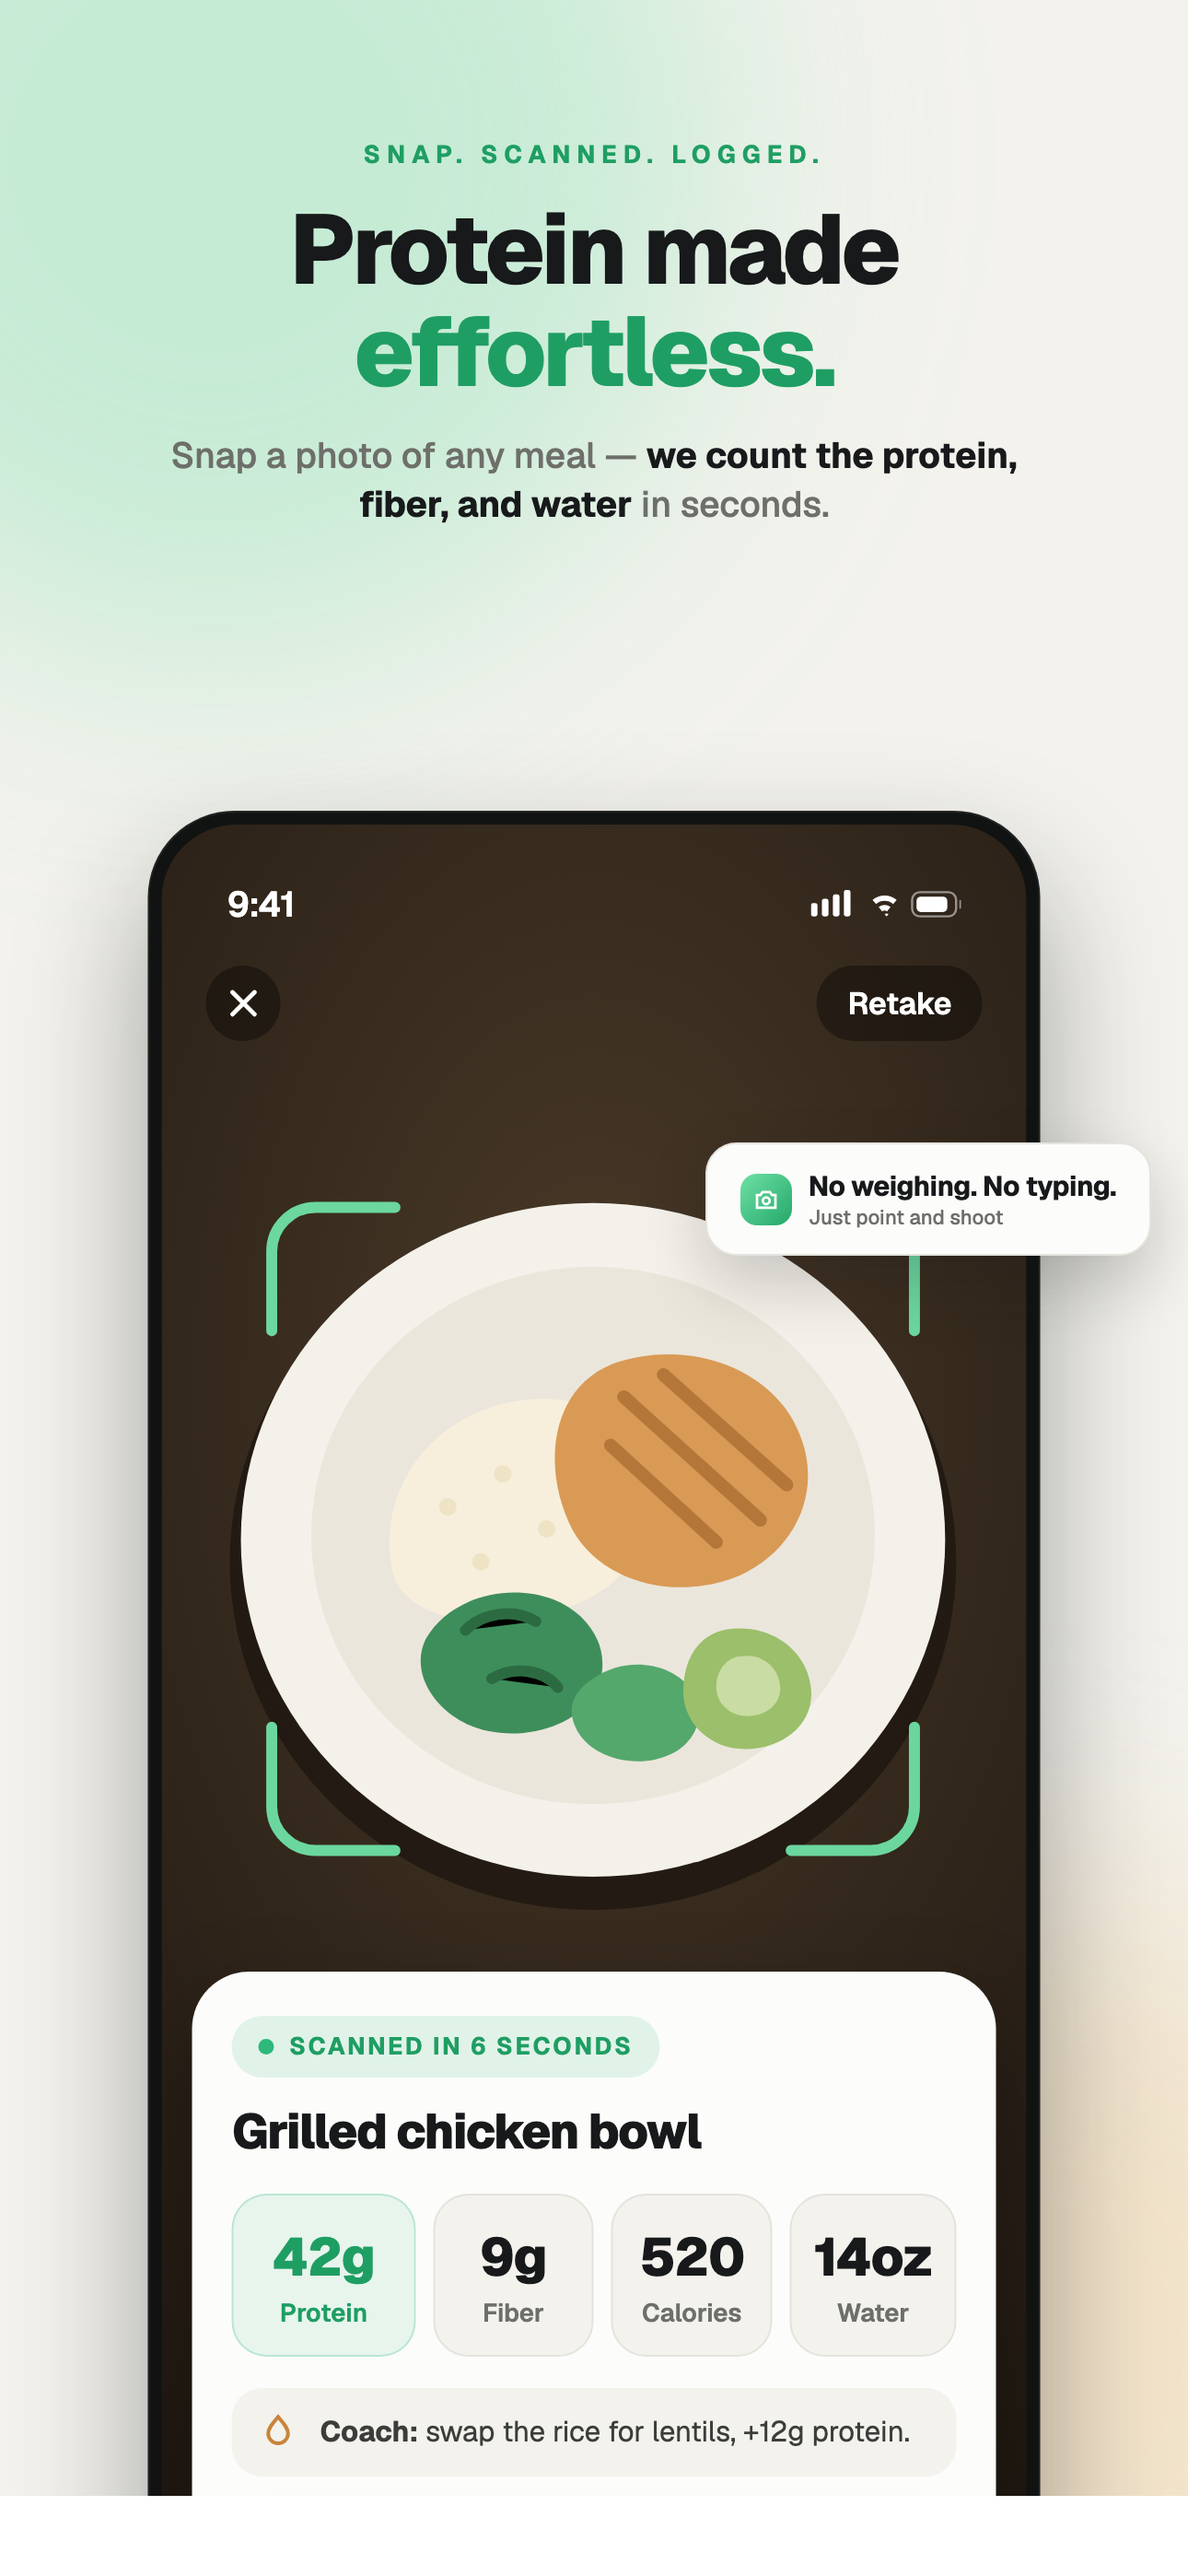
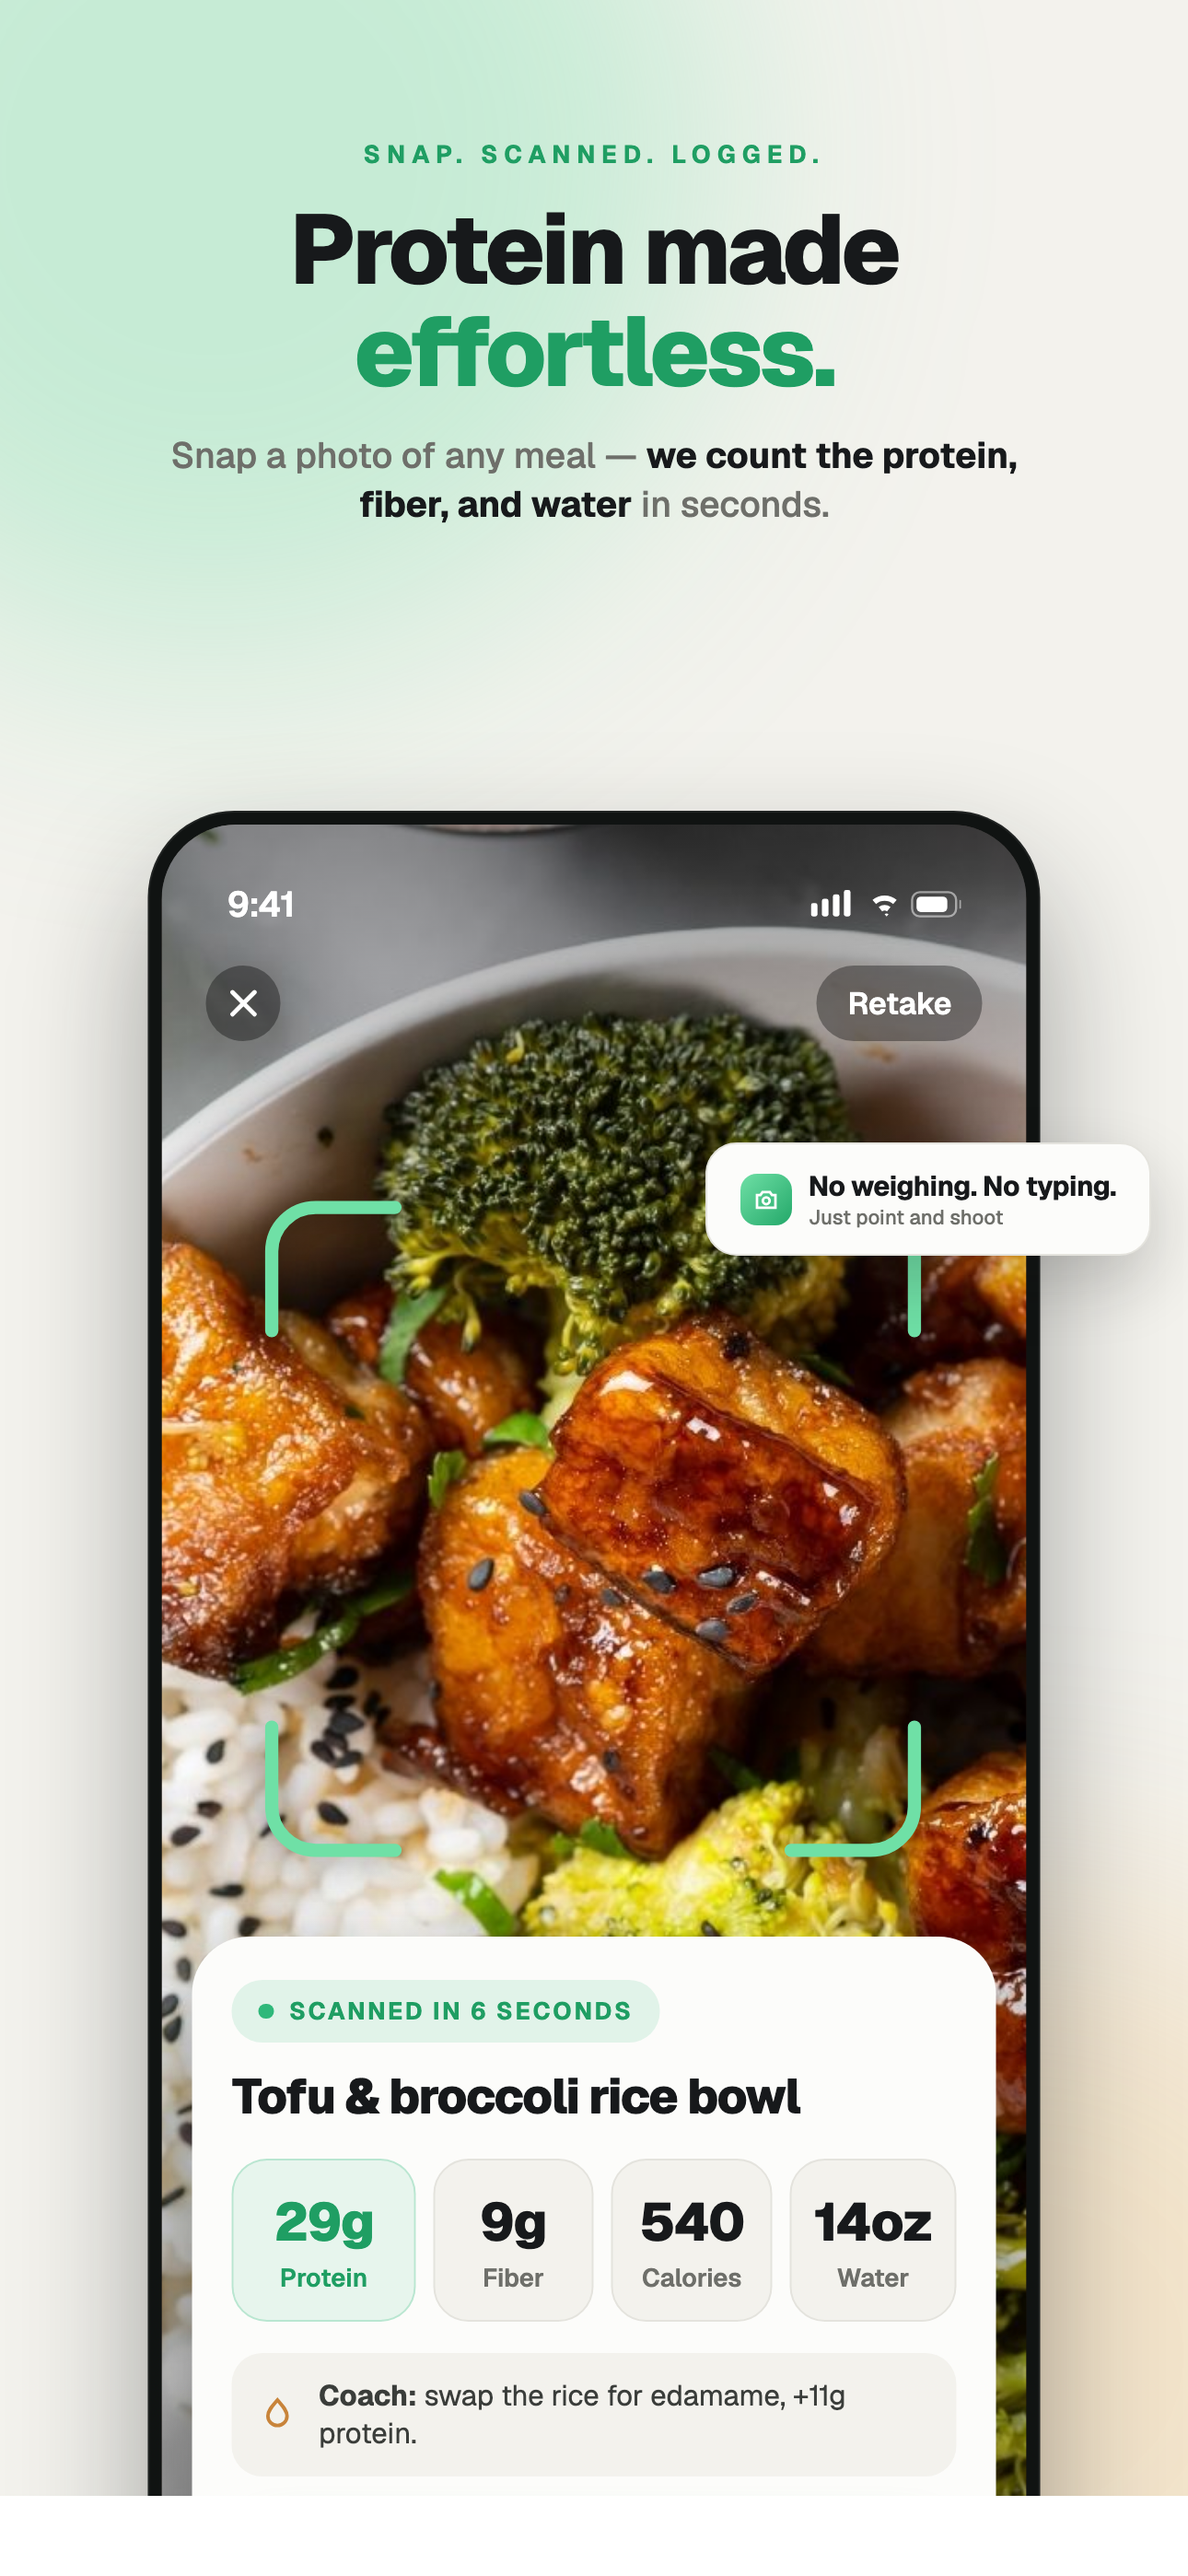
Use a real meal photo in the meal-scan screenshot
The stylized vector plate read as obviously fake. The camera view now
shows an actual tofu and broccoli rice bowl photo (copied into
assets/ so the marketing folder is self-contained), with scrims for
control legibility and drop-shadowed scan corners so they read over
the busy photo. Result card updated to match the meal: tofu bowl,
29g protein, 540 cal, edamame swap suggestion.

diff --git a/marketing/appstore/03-meal-scan.html b/marketing/appstore/03-meal-scan.html
@@ -15,31 +15,14 @@
   <div class="stage" style="top:880px">
     <div class="phone"><div class="screen" style="background:#1a1410">
 
-      <!-- "photo" backdrop: stylized plate -->
-      <div style="position:absolute;inset:0;background:
-        radial-gradient(120% 90% at 50% 30%, #4a3a28 0%, #2b2118 55%, #17110c 100%)"></div>
-      <svg width="393" height="500" viewBox="0 0 393 500" style="position:absolute;top:70px;left:0">
-        <ellipse cx="196" cy="265" rx="165" ry="158" fill="#0e0a07" opacity=".5"/>
-        <ellipse cx="196" cy="255" rx="160" ry="153" fill="#F4F1EA"/>
-        <ellipse cx="196" cy="253" rx="128" ry="122" fill="#EBE6DC"/>
-        <!-- rice -->
-        <path d="M105 270c-8-38 18-72 56-78 30-5 52 8 60 30 8 24-4 48-28 60-32 16-80 14-88-12z" fill="#F7EFDC"/>
-        <circle cx="130" cy="240" r="4" fill="#EFE3C6"/><circle cx="155" cy="225" r="4" fill="#EFE3C6"/><circle cx="175" cy="250" r="4" fill="#EFE3C6"/><circle cx="145" cy="265" r="4" fill="#EFE3C6"/><circle cx="190" cy="228" r="4" fill="#EFE3C6"/>
-        <!-- grilled chicken -->
-        <path d="M205 175c34-12 72 2 84 30 12 26 0 54-26 66-28 12-62 4-76-20-14-26-12-64 18-76z" fill="#D99A55"/>
-        <path d="M210 190l62 56M228 180l56 50M204 212l48 44" stroke="#B5763A" stroke-width="6" stroke-linecap="round"/>
-        <!-- greens -->
-        <path d="M120 300c10-18 36-26 58-18 20 8 28 28 18 44-12 18-44 22-62 10-14-9-20-24-14-36z" fill="#3E8E5B"/>
-        <path d="M138 296c8-8 22-10 32-4M150 318c10-6 24-4 30 4" stroke="#2C6B42" stroke-width="5" stroke-linecap="round"/>
-        <path d="M196 318c14-10 34-8 44 4 8 10 4 24-8 30-16 8-38 2-44-12-4-9-1-16 8-22z" fill="#54A86C"/>
-        <!-- avocado -->
-        <path d="M255 296c20-4 38 8 40 26 2 16-12 28-30 28-16 0-28-12-28-26 0-14 6-25 18-28z" fill="#9BBF6A"/>
-        <path d="M262 308c10-2 18 4 19 13 1 8-6 14-15 14-8 0-14-6-14-13 0-7 4-13 10-14z" fill="#C9DCA3"/>
-      </svg>
+      <!-- camera view: real meal photo -->
+      <div style="position:absolute;inset:0;background:url('assets/meal-photo.jpg') 62% 42% / cover no-repeat"></div>
+      <!-- scrims so the controls and result card read over the photo -->
+      <div style="position:absolute;inset:0;background:linear-gradient(180deg, rgba(0,0,0,.42) 0%, rgba(0,0,0,0) 22%, rgba(0,0,0,0) 55%, rgba(0,0,0,.35) 100%)"></div>
 
       <!-- scan corners -->
-      <svg width="300" height="300" viewBox="0 0 300 300" style="position:absolute;top:170px;left:46px">
-        <g stroke="#6FE0A6" stroke-width="5" stroke-linecap="round" fill="none" opacity=".95">
+      <svg width="300" height="300" viewBox="0 0 300 300" style="position:absolute;top:170px;left:46px;filter:drop-shadow(0 2px 8px rgba(0,0,0,.55))">
+        <g stroke="#6FE0A6" stroke-width="6" stroke-linecap="round" fill="none">
           <path d="M4 60V24a20 20 0 0 1 20-20h36"/><path d="M240 4h36a20 20 0 0 1 20 20v36"/>
           <path d="M296 240v36a20 20 0 0 1-20 20h-36"/><path d="M60 296H24a20 20 0 0 1-20-20v-36"/>
         </g>
@@ -63,10 +46,10 @@
       <!-- result card -->
       <div style="position:absolute;z-index:25;left:14px;right:14px;bottom:16px;background:#FCFCFA;border-radius:26px;padding:20px 18px 18px;box-shadow:0 18px 40px rgba(0,0,0,.35)">
         <span class="pill"><span class="dot"></span>SCANNED IN 6 SECONDS</span>
-        <div style="margin-top:10px;font-size:22px;font-weight:800;letter-spacing:-0.5px;color:#17191B">Grilled chicken bowl</div>
+        <div style="margin-top:10px;font-size:22px;font-weight:800;letter-spacing:-0.5px;color:#17191B">Tofu &amp; broccoli rice bowl</div>
         <div style="display:flex;gap:8px;margin-top:14px">
           <div style="flex:1.2;background:rgba(47,184,122,.10);border:1px solid rgba(47,184,122,.25);border-radius:16px;padding:12px 10px;text-align:center">
-            <div style="font-size:24px;font-weight:800;letter-spacing:-0.5px;color:#1F9E63">42g</div>
+            <div style="font-size:24px;font-weight:800;letter-spacing:-0.5px;color:#1F9E63">29g</div>
             <div style="font-size:11.5px;font-weight:600;color:#1F9E63;margin-top:2px">Protein</div>
           </div>
           <div style="flex:1;background:#F3F2ED;border:1px solid #E4E3DD;border-radius:16px;padding:12px 10px;text-align:center">
@@ -74,7 +57,7 @@
             <div style="font-size:11.5px;font-weight:600;color:#6E6F6A;margin-top:2px">Fiber</div>
           </div>
           <div style="flex:1;background:#F3F2ED;border:1px solid #E4E3DD;border-radius:16px;padding:12px 10px;text-align:center">
-            <div style="font-size:24px;font-weight:800;letter-spacing:-0.5px;color:#17191B">520</div>
+            <div style="font-size:24px;font-weight:800;letter-spacing:-0.5px;color:#17191B">540</div>
             <div style="font-size:11.5px;font-weight:600;color:#6E6F6A;margin-top:2px">Calories</div>
           </div>
           <div style="flex:1;background:#F3F2ED;border:1px solid #E4E3DD;border-radius:16px;padding:12px 10px;text-align:center">
@@ -84,7 +67,7 @@
         </div>
         <div style="display:flex;align-items:center;gap:10px;margin-top:14px;background:#F3F2ED;border-radius:14px;padding:11px 12px">
           <svg width="18" height="18" viewBox="0 0 24 24" fill="none" stroke="#C8843A" stroke-width="2.2" stroke-linecap="round"><path d="M12 3c3 3.5 6 6.5 6 10a6 6 0 0 1-12 0c0-3.5 3-6.5 6-10z"/></svg>
-          <span style="font-size:13px;line-height:17px;color:#3A3D3A"><b>Coach:</b> swap the rice for lentils, +12g protein.</span>
+          <span style="font-size:13px;line-height:17px;color:#3A3D3A"><b>Coach:</b> swap the rice for edamame, +11g protein.</span>
         </div>
         <div class="gbtn" style="margin-top:14px">Log it — takes one tap</div>
       </div>
